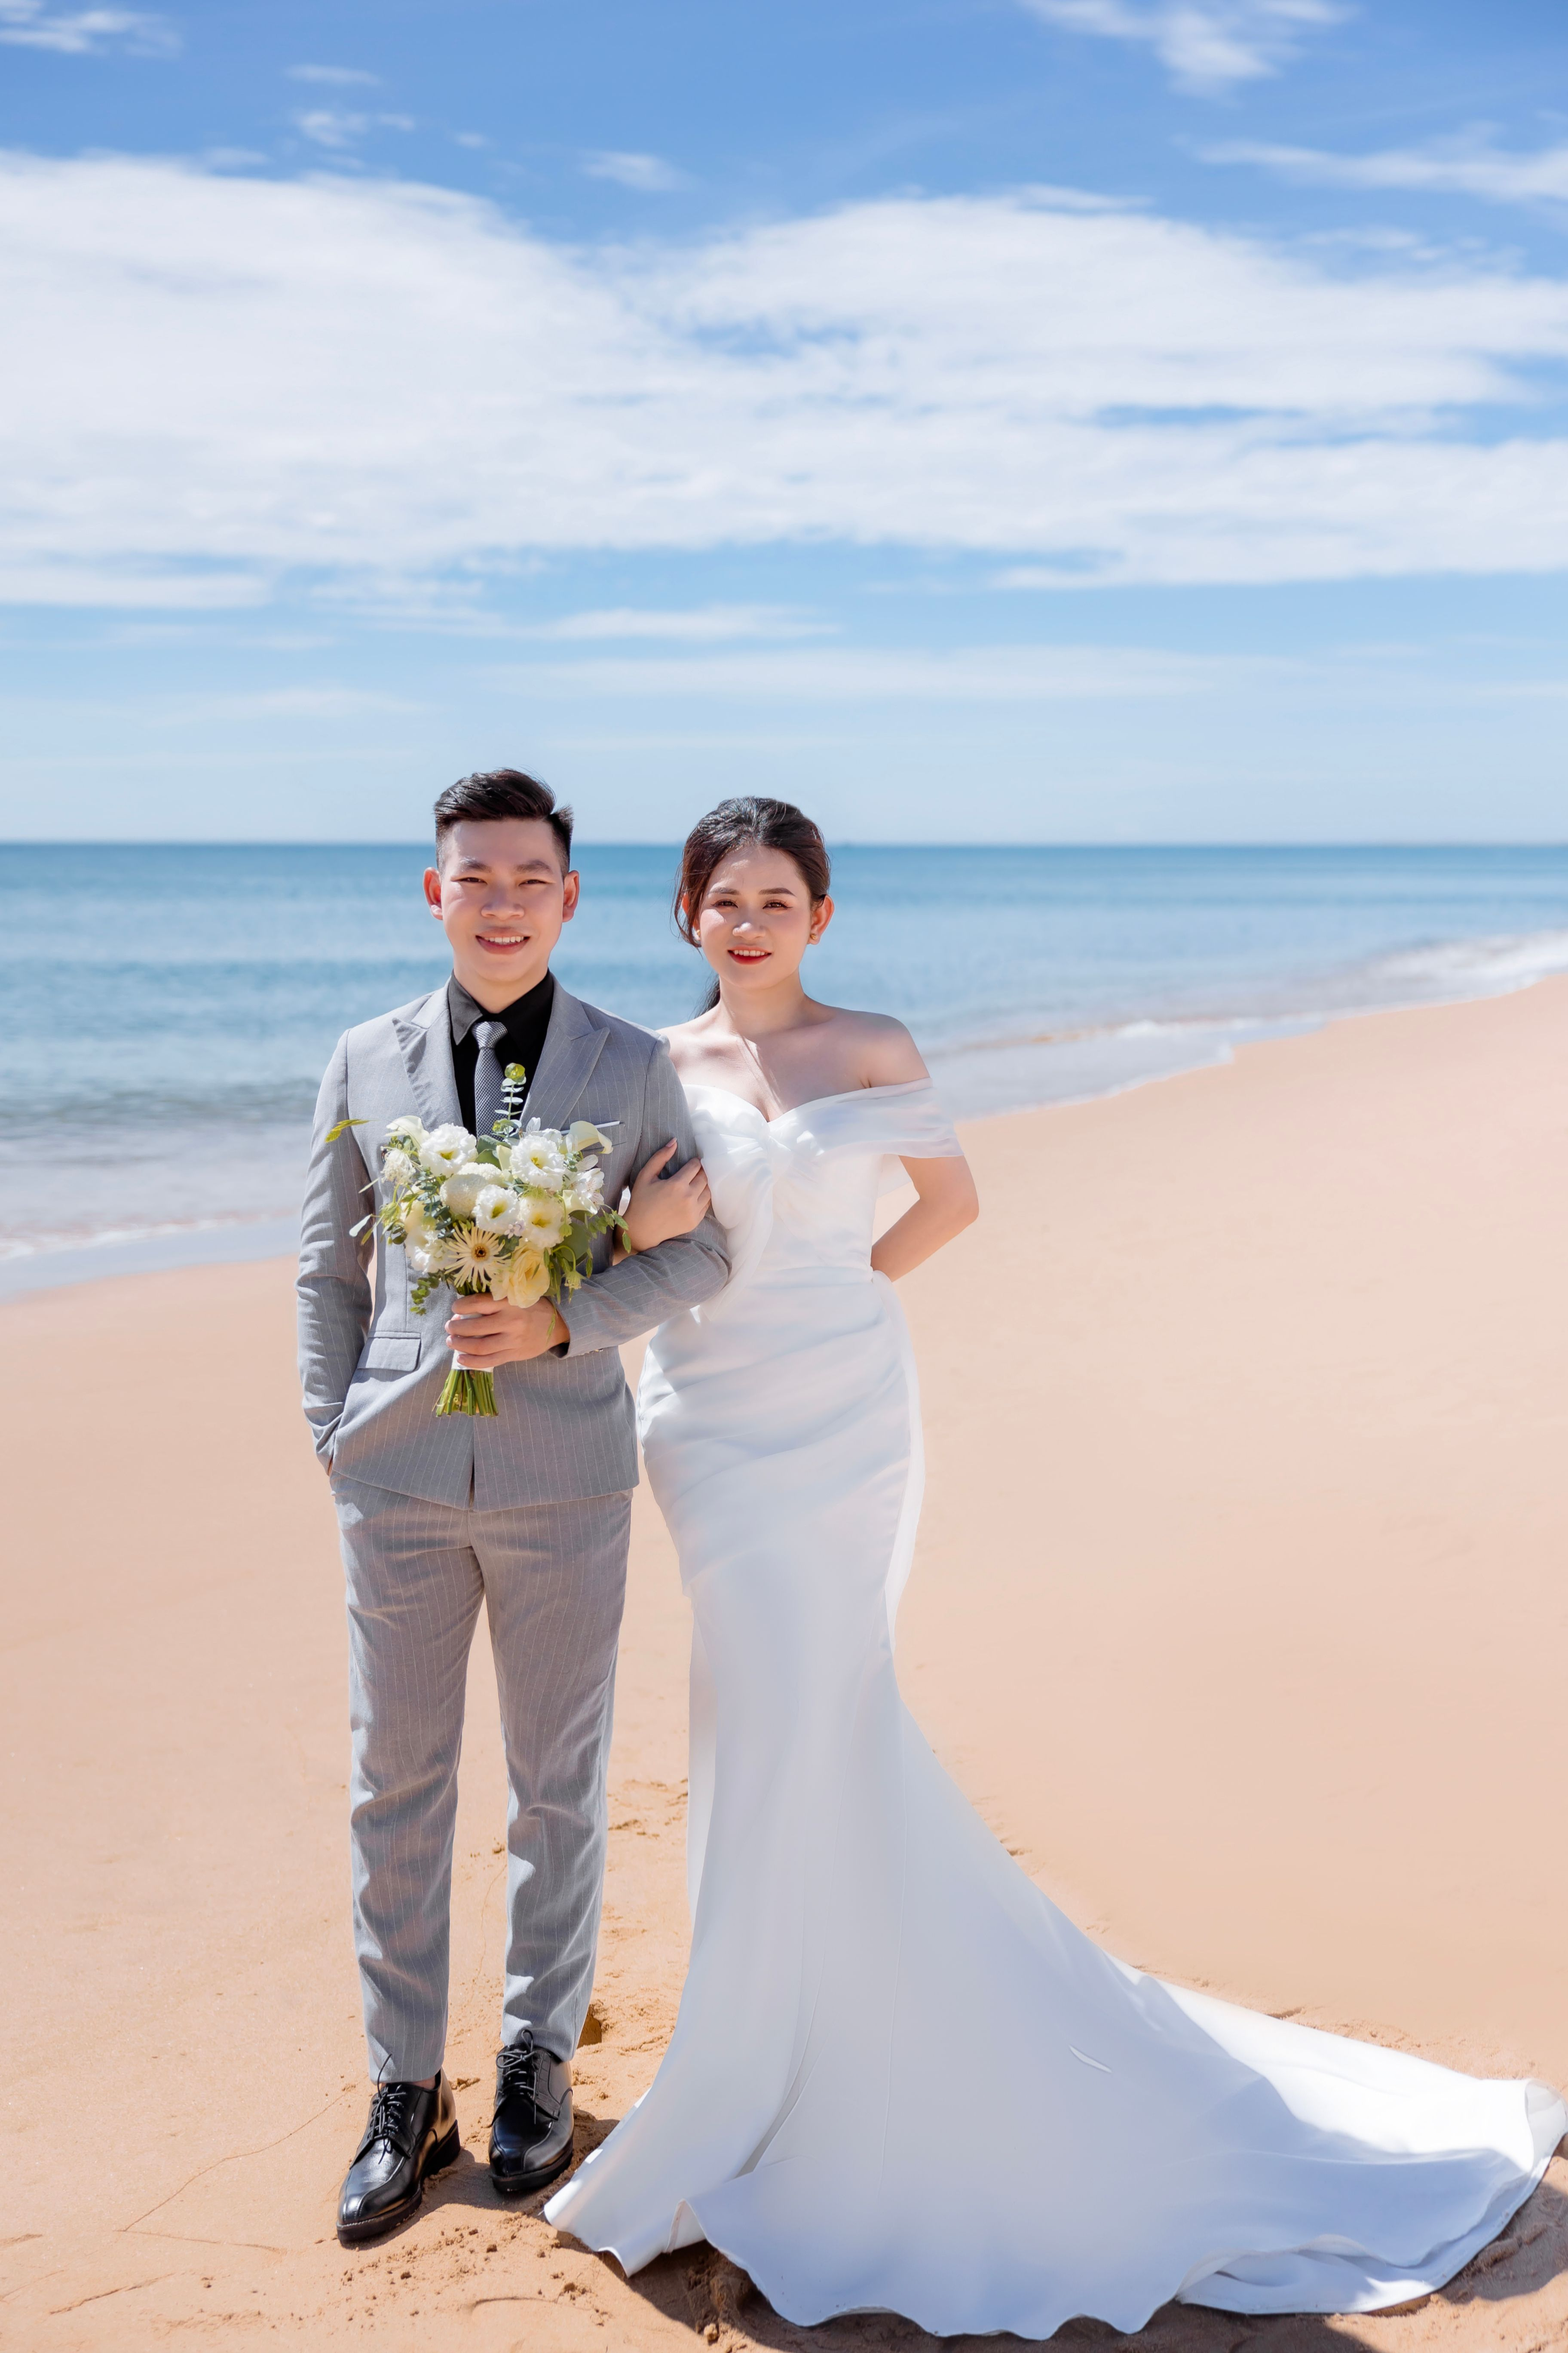
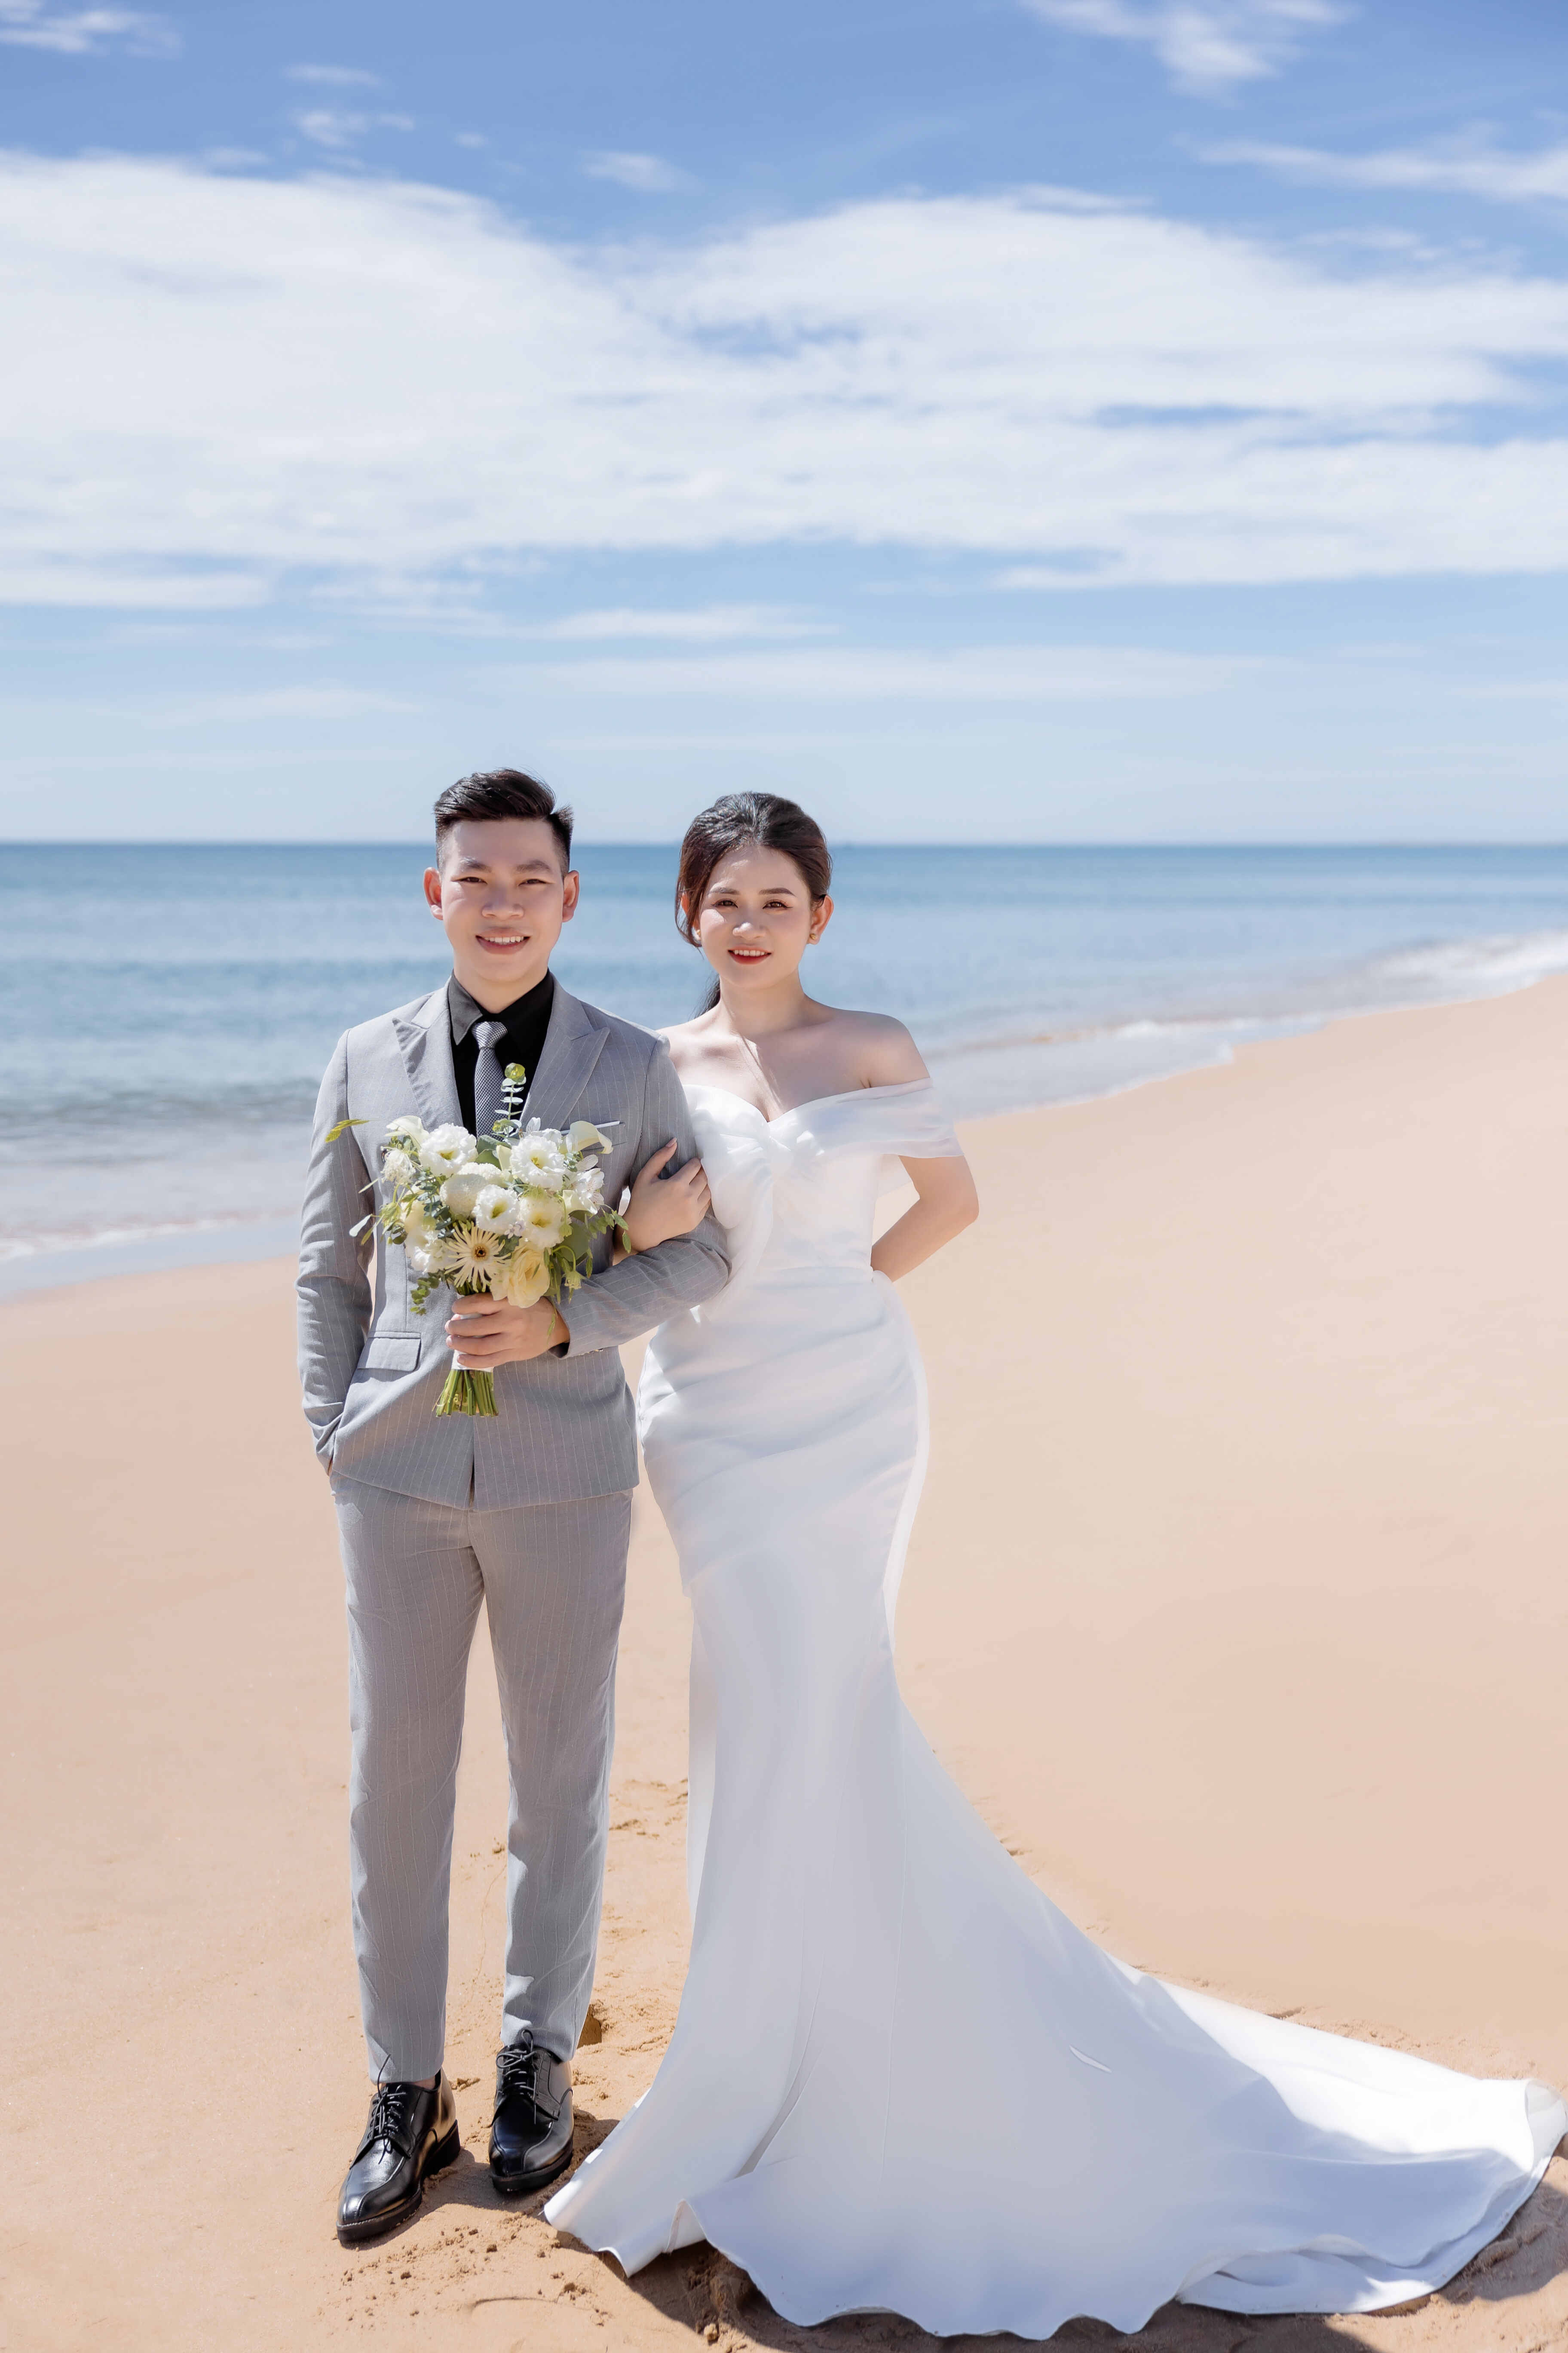
update

diff --git a/index.html b/index.html
@@ -581,7 +581,7 @@
                             </a>
                         </div>
                         <div class="grid grid-item" style="position: absolute; left: 33.2468%; top: 1401px;">
-                            <a href="https://firebasestorage.googleapis.com/v0/b/huy-tham-wedding-fe.appspot.com/o/TSNQ1632%20copy.jpg?alt=media&token=d4780b46-efc6-41cf-8233-b84eec0f3b1b" class="fancybox" data-fancybox-group="gall-1">
+                            <a href="https://firebasestorage.googleapis.com/v0/b/huy-tham-wedding-fe.appspot.com/o/TSNQ1632%20copy%20(1).jpg?alt=media&token=9adfb17c-0d9f-40c6-b7a9-2e0d70542c9d" class="fancybox" data-fancybox-group="gall-1">
                                 <img src="./images/album/TSNQ1632 copy.jpg" alt class="img img-responsive">
                             </a>
                         </div>
